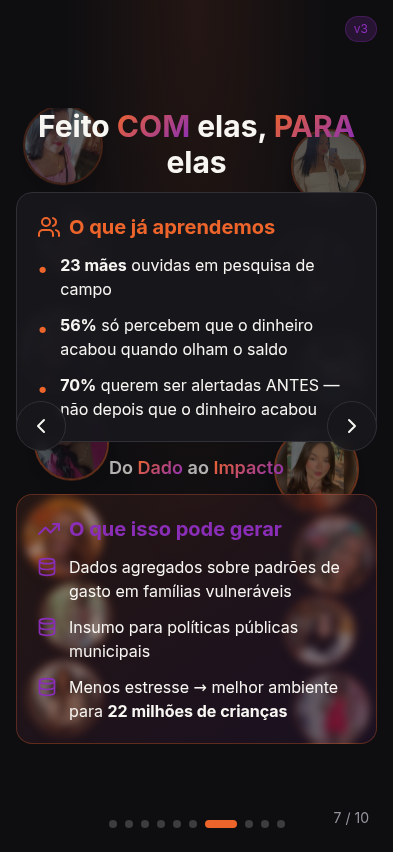
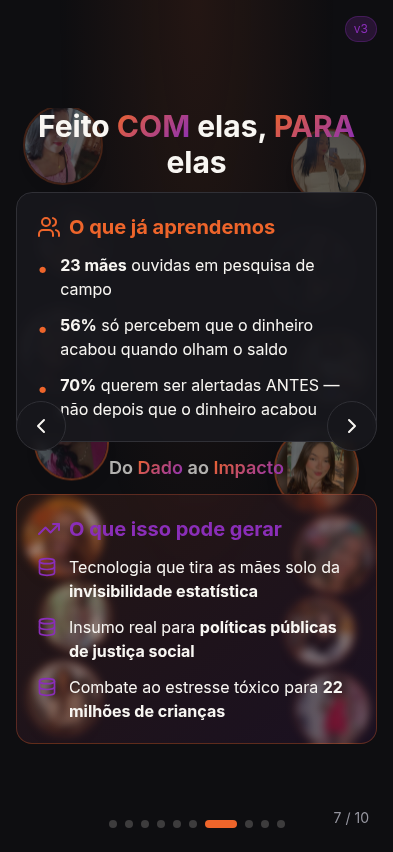
feat(presentation): strengthen impact language in Slide 7 (Traction)

Changed region(s): [[0.1832, 0.7324, 0.8855, 0.8545], [0.1832, 0.6408, 0.855, 0.7019]]

diff --git a/src/components/presentation/v3/SlideTraction.tsx b/src/components/presentation/v3/SlideTraction.tsx
@@ -116,15 +116,15 @@ const SlideTraction = ({ isActive, transition }: SlideTractionProps) => {
           <ul className="space-y-3">
             <li className="flex items-start gap-3 text-base sm:text-lg">
               <Database className="w-5 h-5 text-secondary mt-0.5 shrink-0" />
-              <span>Dados agregados sobre padrões de gasto em famílias vulneráveis</span>
+              <span>Tecnologia que tira as mães solo da <strong>invisibilidade estatística</strong></span>
             </li>
             <li className="flex items-start gap-3 text-base sm:text-lg">
               <Database className="w-5 h-5 text-secondary mt-0.5 shrink-0" />
-              <span>Insumo para políticas públicas municipais</span>
+              <span>Insumo real para <strong>políticas públicas de justiça social</strong></span>
             </li>
             <li className="flex items-start gap-3 text-base sm:text-lg">
               <Database className="w-5 h-5 text-secondary mt-0.5 shrink-0" />
-              <span>Menos estresse → melhor ambiente para <strong>22 milhões de crianças</strong></span>
+              <span>Combate ao estresse tóxico para <strong>22 milhões de crianças</strong></span>
             </li>
           </ul>
         </div>
